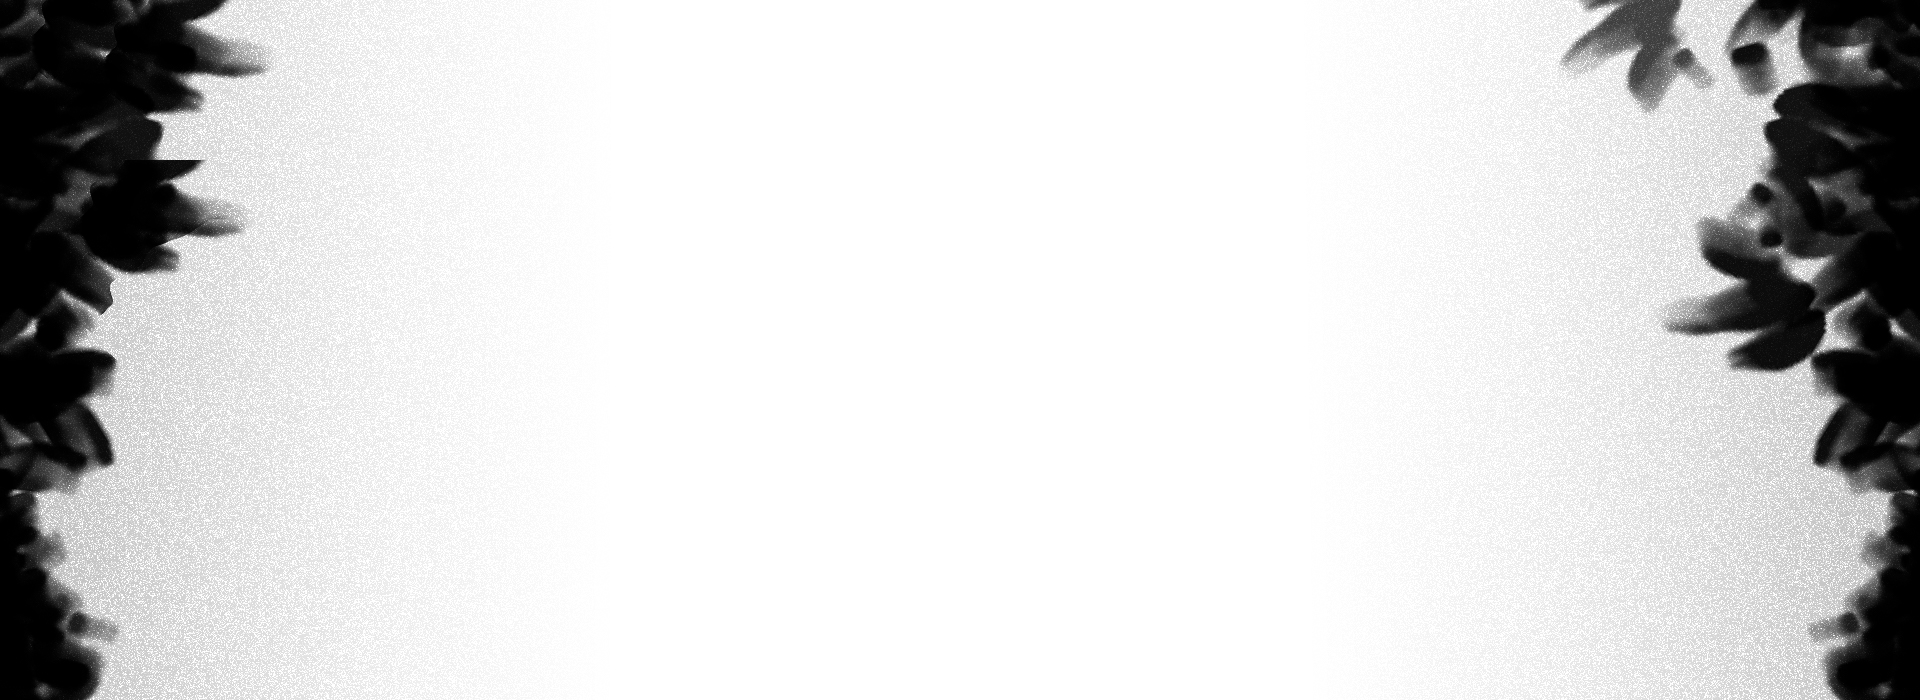
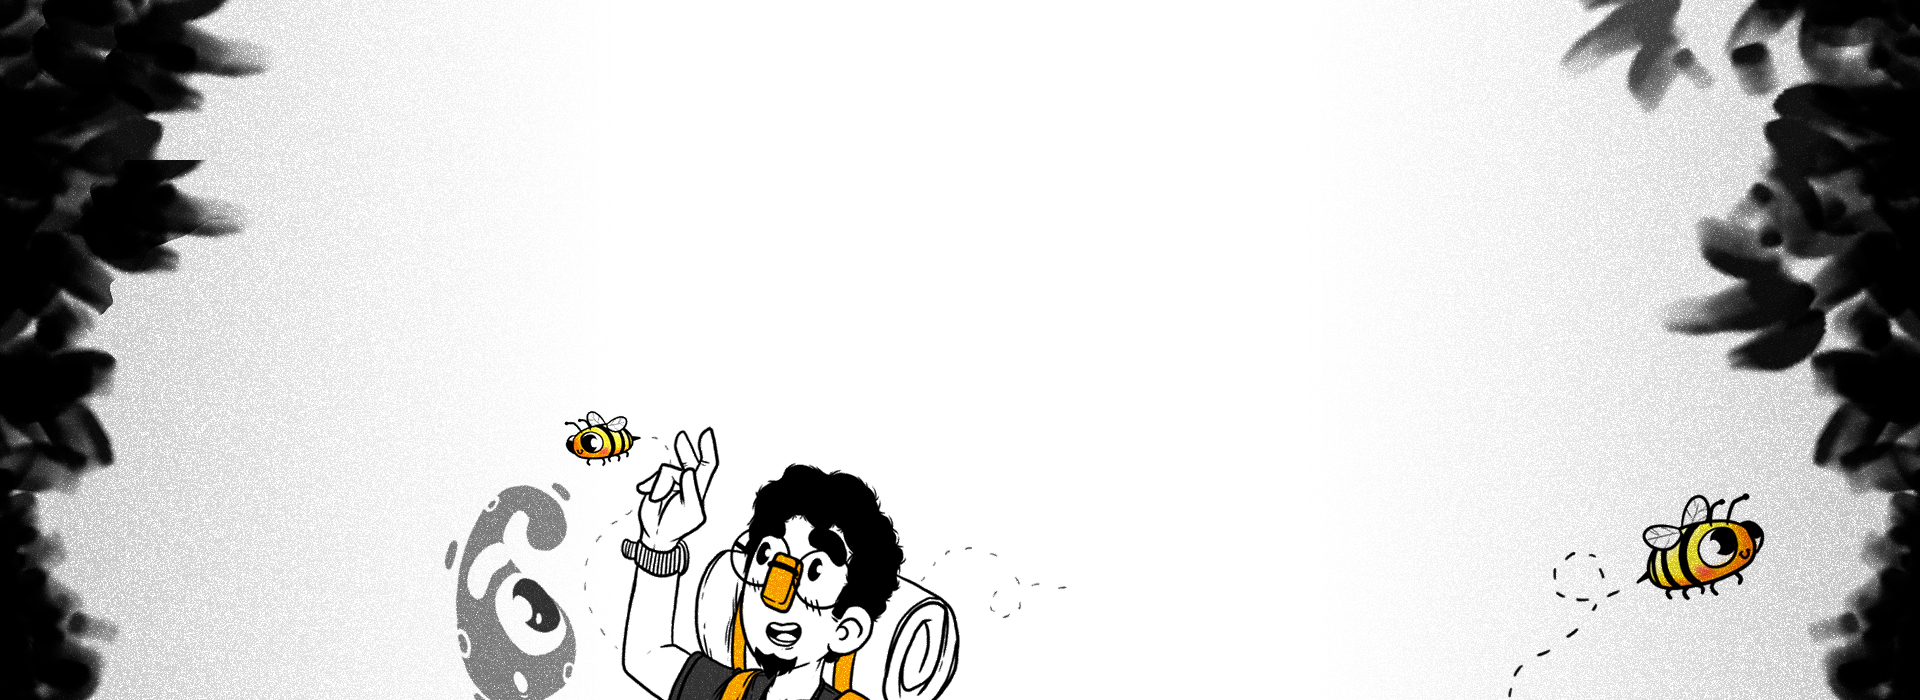
servicios listo

Changed region(s): [[0.2188, 0.6, 0.5, 1.0], [0.8438, 0.69, 0.9375, 0.87], [0.8125, 0.84, 0.8438, 0.87]]

diff --git a/index.html b/index.html
@@ -22,7 +22,7 @@
           <li><a href="#">Inicio</a></li>
           <li><a href="#">Sobre mí</a></li>
           <li><a href="#">Portafolio</a></li>
-          <li><a href="#">Servicios</a></li>
+          <li><a href="#services">Servicios</a></li>
           <li><a href="#">Contacto</a></li>
         </ul>
       </nav>
@@ -64,13 +64,13 @@
     <section class="portafolio">
       <div class="porta-contenedor">
         <div class="porta-texto">
-            <h2>¿Te imaginas ver tus ideas convertidas en arte?</h2>
-            <p>
-              Descubre mi trabajo en donde realizo retratos personalizados para
-              toda ocasión, loops animados llenos de vida, diseño de personajes
-              únicos y mucho más.<br />
-              <b>¡Dale vida a tu imaginación!</b>
-            </p>
+          <h2>¿Te imaginas ver tus ideas convertidas en arte?</h2>
+          <p>
+            Descubre mi trabajo en donde realizo retratos personalizados para
+            toda ocasión, loops animados llenos de vida, diseño de personajes
+            únicos y mucho más.<br />
+            <b>¡Dale vida a tu imaginación!</b>
+          </p>
         </div>
         <div class="galeria">
           <div class="flip-card">
@@ -130,6 +130,31 @@
         <h2>Quieres ver más....</h2>
         <div class="btn-porta">
           <a href="portafolio.html">¡Click! aquí!</a>
+        </div>
+      </div>
+    </section>
+    <section id="services" class="servicios">
+      <div class="servicios-contenedor">
+        <div class="columna">
+          <h2>¡Haz que tus ideas cobren vida!</h2>
+          <p>
+            Desde personajes entrañables hasta mundos llenos de color y detalle,
+            mis ilustraciones están hechas para emocionar, contar historias y
+            conectar con las personas. Si buscas ilustraciones para un libro, un
+            producto, tu marca o simplemente algo único, estás en el lugar
+            indicado.
+          </p>
+        </div>
+        <div class="columna">
+          <h2>Descubre todos los servicios que tengo para ti:</h2>
+          <ul class="lista">
+            <li>Comisiones</li>
+            <li>Diseño de Personajes</li>
+            <li>Animaciones (Loop)</li>
+            <li>Ilustraciones personalizadas (Retratos)</li>
+            <li>Ilustración Editorial</li>
+          </ul>
+        </div>
       </div>
     </section>
     <script src="script.js"></script>

diff --git a/styles.css b/styles.css
@@ -375,3 +375,53 @@ article {
   transition: transform 0.3s ease;
 }
 /* fin --- .portafolio --- html */
+
+/* inicio --- .servicios --- html */
+
+.servicios {
+  background-image: url("Imagenes/fondos/fondo_4.jpg");
+  background-size: cover;
+  background-position: center;
+  background-repeat: no-repeat;
+  padding: 4rem 2rem;
+  width: 100%;
+}
+
+.servicios-contenedor {
+  max-width: 1200px;
+  margin: 0 auto;
+  display: flex;
+  gap: 3rem;
+  justify-content: center;
+  align-items: flex-start;
+  flex-wrap: wrap; /* para adaptarse en móviles */
+}
+
+.columna {
+  flex: 1 1 45%;
+  padding: 4rem;
+}
+
+.columna h2 {
+  font-size: 1.8rem;
+  margin-bottom: 1rem;
+  text-align: center;
+}
+
+.columna p,
+.columna ul {
+  font-size: 1rem;
+  line-height: 1.6;
+  text-align: justify;
+}
+
+.lista {
+  font-family: "Nunito", sans-serif;
+  padding-left: 1.2rem;
+  list-style: disc;
+}
+
+.lista li {
+  list-style: disc;
+  margin-bottom: 0.6rem;
+}
